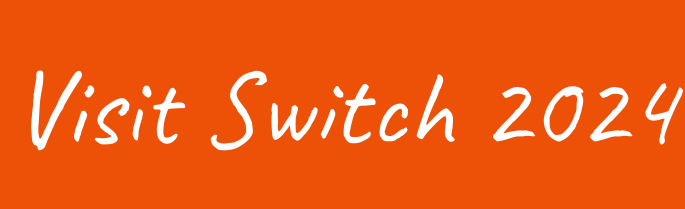
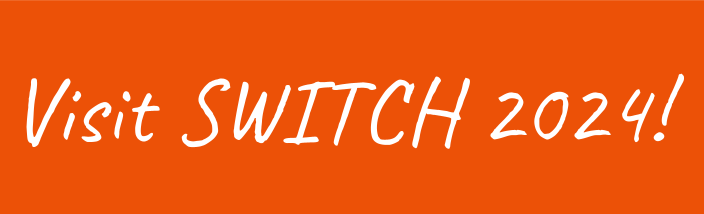
add asset visit switch 2024

Changed region(s): [[0.0307, 0.3445, 1.0, 0.7177], [0.0, 0.0, 1.0, 0.0287]]

diff --git a/frontend/src/pages/quest/special-quest/index.vue b/frontend/src/pages/quest/special-quest/index.vue
@@ -1,7 +1,7 @@
 <script setup lang="ts">
 import { sleep } from "radash"
 import { fireConfetti } from "~/pages/quest/[id]/photo/fireConfetti"
-import { imagesMrSakai } from ".."
+import { imagesVisitSwitch } from ".."
 import "aframe"
 import "mind-ar/dist/mindar-image.prod.js"
 import "mind-ar/dist/mindar-image-aframe.prod.js"
@@ -45,7 +45,7 @@ onMounted(async () => {
       sceneRef.value?.systems["mindar-image-system"].pause()
 
       await sleep(300)
-      imagesMrSakai()
+      imagesVisitSwitch()
       fireConfetti()
       state.value = "found"
     })
